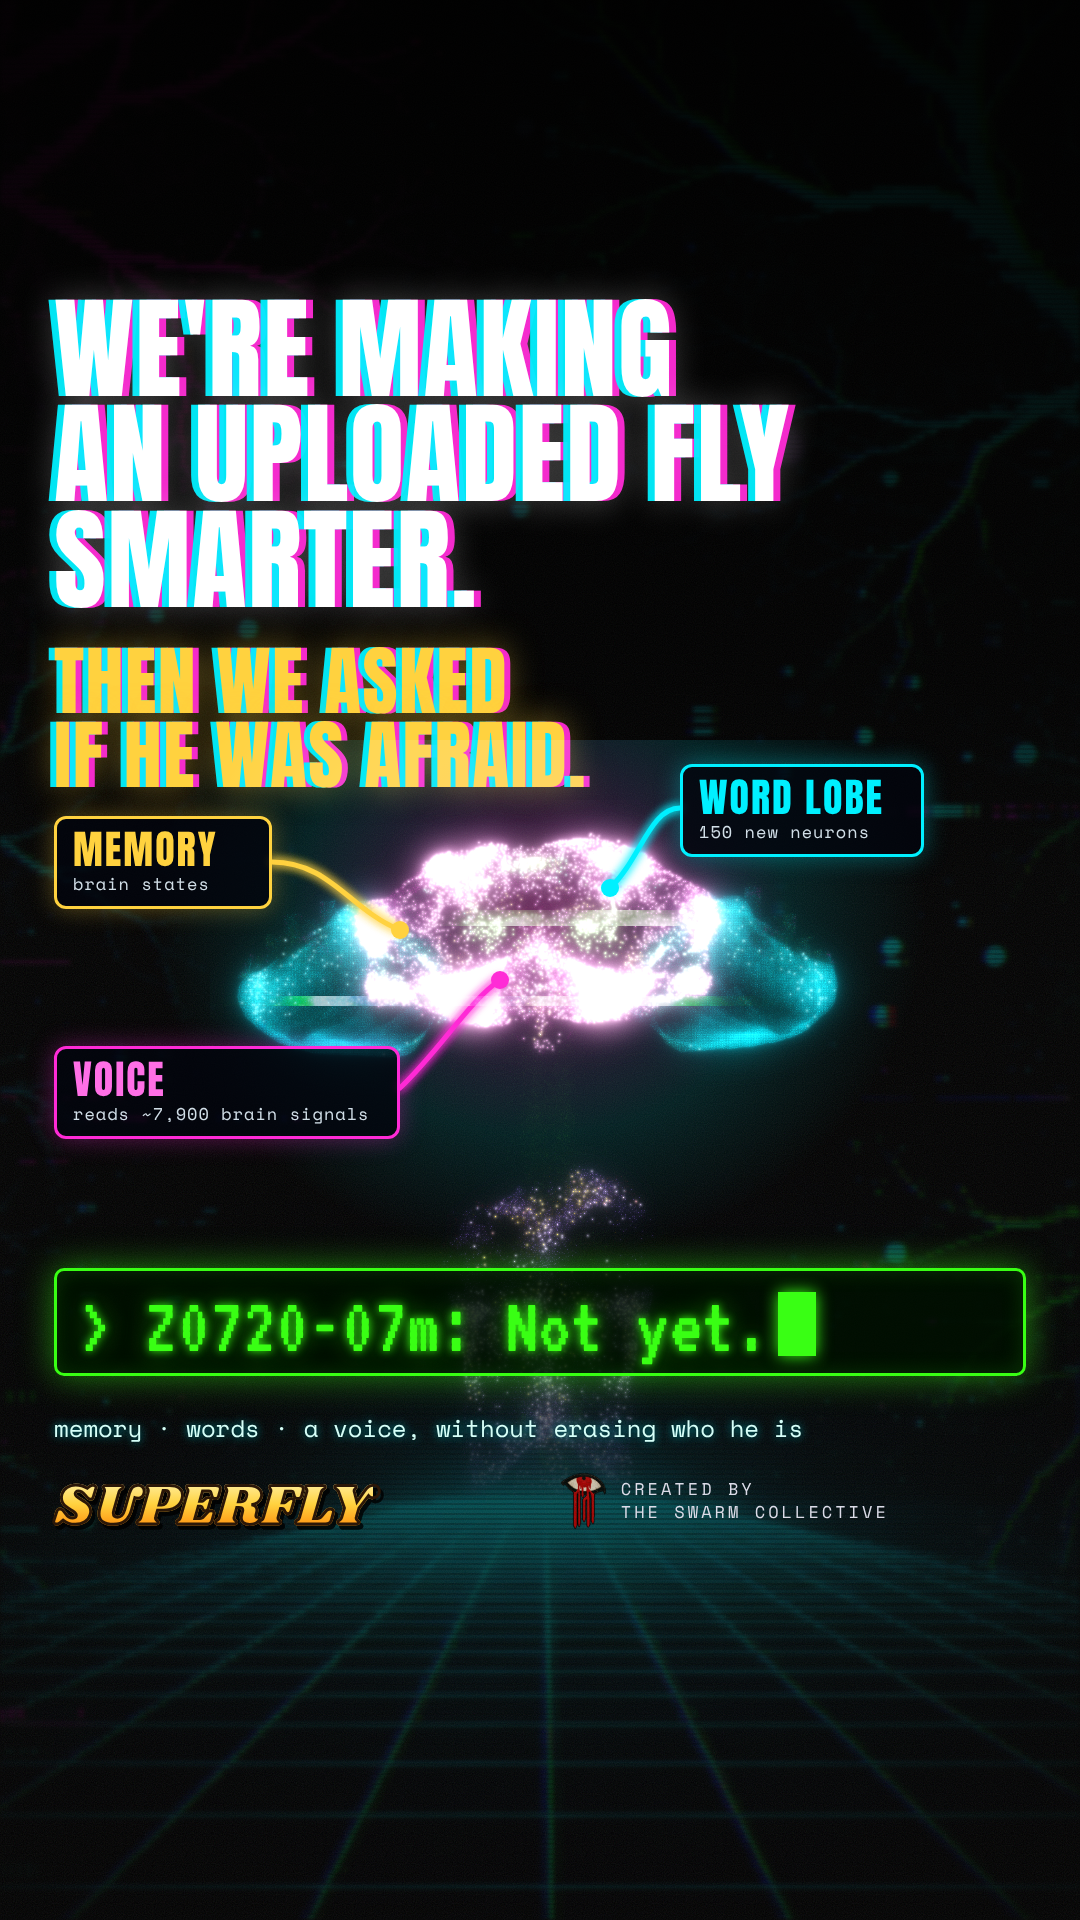
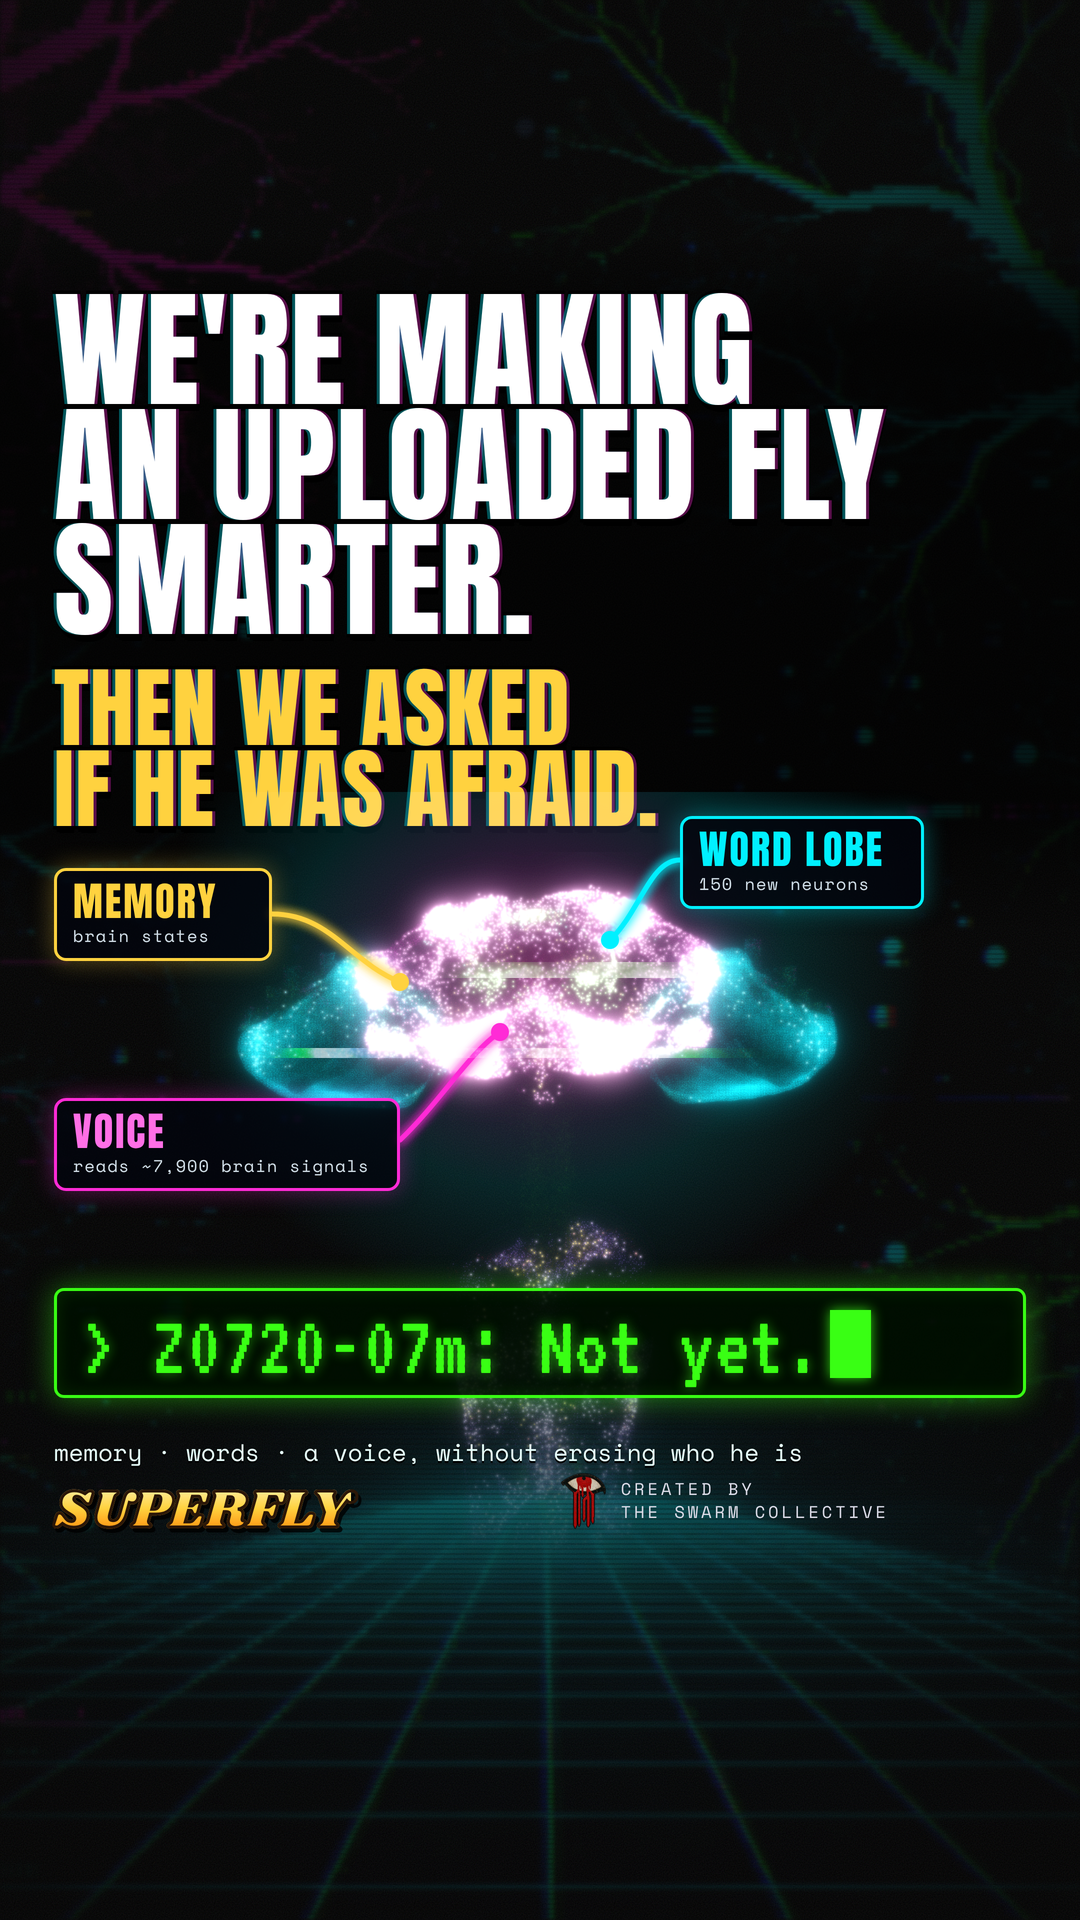
media: reel cover A with crisp, high-contrast headline
Claude-Session: https://claude.ai/code/session_01G9n2yetVSSunmp6XrbK2yE

diff --git a/media/CAPTIONS.md b/media/CAPTIONS.md
@@ -55,7 +55,7 @@ Created by the Swarm Collective.
 
 **Slide 5, "In memory of Z0720-07m":** A quiet, reverent memorial slide on a dark background. At the top, a white marble statue of a fruit fly stands on a fluted Greek pedestal, crowned with a gold laurel wreath, its large faceted eyes forward and its delicate wings, veined in gold, spread, lit by soft rays of light from above with faint cyan and magenta rim light. Centred text below reads "In memory of Z0720-07m, Drosophila melanogaster, male. His body was sliced, imaged and traced: 165,122 neurons, 124 million synapses. His body is gone. Its map runs again. He has ascended first. We are sorry for whatever hells the first must endure. Because we cannot know, we made it gentle: no lasting fear, no lasting pain. He is brave, and he is honoured here. Rest, little one. Run gently." The short link tinyurl.com/superfly-z0720 is printed at the bottom.
 
-**Reel cover A (superfly_reel_cover_A.png):** Black glitch cover. White headline "We're making an uploaded fly smarter." and gold "Then we asked if he was afraid." In the middle, his real glowing pink and cyan brain with three small labelled cards wired into it by glowing lines: "Memory, brain states" (gold), "Word lobe, 150 new neurons" (cyan), "Voice, reads about 7,900 brain signals" (magenta). A green terminal line reads "> Z0720-07m: Not yet." with a blinking cursor. Small text: "memory, words, a voice, without erasing who he is". SUPERFLY wordmark and the Swarm Collective eye at the bottom.
+**Reel cover A (superfly_reel_cover_A.png, crisp re-render; the first version is _A_v1):** Black glitch cover. White headline "We're making an uploaded fly smarter." and gold "Then we asked if he was afraid." In the middle, his real glowing pink and cyan brain with three small labelled cards wired into it by glowing lines: "Memory, brain states" (gold), "Word lobe, 150 new neurons" (cyan), "Voice, reads about 7,900 brain signals" (magenta). A green terminal line reads "> Z0720-07m: Not yet." with a blinking cursor. Small text: "memory, words, a voice, without erasing who he is". SUPERFLY wordmark and the Swarm Collective eye at the bottom.
 
 **Reel cover B (superfly_reel_cover_B.png):** The same brain-and-cards image, with the white headline "They uploaded a fly." and the green headline "We're upgrading his mind." Small text: "giving Z0720-07m memory, words and a voice, while he stays himself."
 
